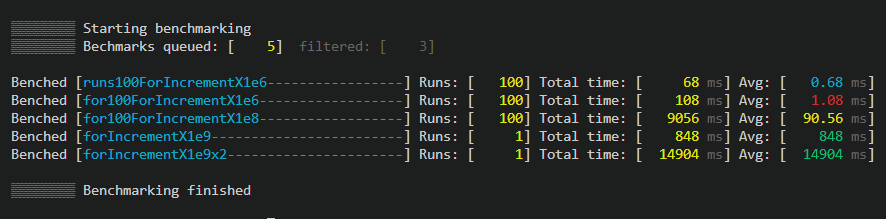
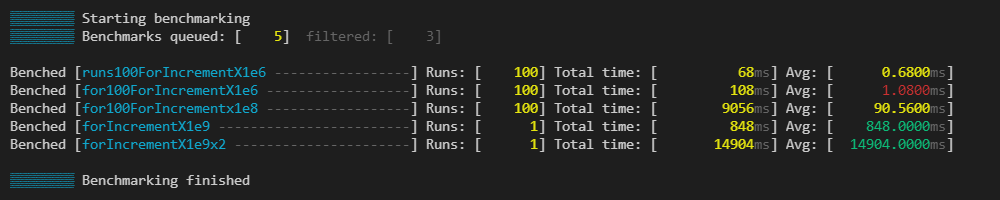
Generate all images with snapper

Changed region(s): [[0.0, 0.33, 1.0, 0.75], [0.0, 0.03, 0.4876, 0.27], [0.0, 0.81, 0.3047, 0.96]]

diff --git a/docs/snapper.ts b/docs/snapper.ts
@@ -21,7 +21,7 @@ async function generateDocsImages() {
 
     const resultData = readJsonSync(join(pathBase, "benchmark_result_input.json"));
 
-    const postFix = '_snap.png';
+    const postFix = '.png';
 
     const thresholds = {"multiple-runs": { green: 76, yellow: 82 }};
     const indicators = [{benches: /multiple-runs/, color: colors.magenta,modFn: () => ({indicator: "🚀 ", visibleLength: 2})}];
@@ -33,6 +33,8 @@ async function generateDocsImages() {
                 "multiple-runs": {measuredRunsAvgMs: 133.2134, totalMs: 13321.34, runsCount: 100}
         }}]
     });
+
+    /* Result cards */
 
     const optionsSet: {name: string, options: prettyBenchmarkResultOptions}[] = [ // TODO remove "snap" postfix
         {name: 'docs/imgs/prettyBenchingResult_example_threshold', options: {thresholds}},
@@ -55,9 +57,9 @@ async function generateDocsImages() {
 
     let result = "";
     prettyBenchmarkResult({outputFn: (res) => result += res})(resultData);
-    snaps.push({content: result, imageSavePath: "docs/imgs/prettyBenchingResult_example", viewport: {deviceScaleFactor: 1, width: 780, height: 595}});
+    snaps.push({content: result.replace(/\n$/, ''), imageSavePath: "docs/imgs/prettyBenchingResult_example", viewport: {width: 780}});
 
-    /** Progress */
+    /* Progress */
 
     const progressCases = [
         {name: 'docs/imgs/prettyBenchingProgress_example_running', state: buildProgressState([
@@ -127,13 +129,13 @@ async function generateDocsImages() {
         const states = buildProgressState(c.state);
         states.forEach(state => progressFnc(state));
 
-        result = result.replace(/^\x1B\[1A\r/, ''); //replace first up1Cl causing empty line
+        result = result.replace(/^\x1B\[1A\r/, '').replace(/^\n/, '').replace(/\n$/, ''); //replace first up1Cl causing empty line
 
         return {content: result, imageSavePath: c.name,viewport:{width: 1000, ...c.viewport}} as SnapParams;
     }) as any)
 
 
-    await snap(snaps.map(s => ({...s, imageSavePath: s.imageSavePath + postFix})), {verbose: true, theme: {background: '#000'}});
+    await snap(snaps.map(s => ({...s, imageSavePath: s.imageSavePath + postFix})), {verbose: true, viewport: {deviceScaleFactor: 1}});
 }
 
 function readJsonSync(path: string) {

diff --git a/README.md b/README.md
@@ -11,6 +11,7 @@ A simple Deno library, that gives you pretty benchmarking progress and results i
 [![Build Status](https://github.com/littletof/prettyBenching/workflows/CI/badge.svg)](https://github.com/littletof/prettyBenching/actions?query=workflow%3ACI)
 [![Coverage Status](https://coveralls.io/repos/github/littletof/prettyBenching/badge.svg)](https://coveralls.io/github/littletof/prettyBenching)
 ![maintained](https://img.shields.io/maintenance/yes/2021)
+[![snapper_deno](https://img.shields.io/badge/-snapper%20%F0%9F%93%B7-%230DBC79)](https://github.com/littletof/snapper)
 
 ## Jump to
 
